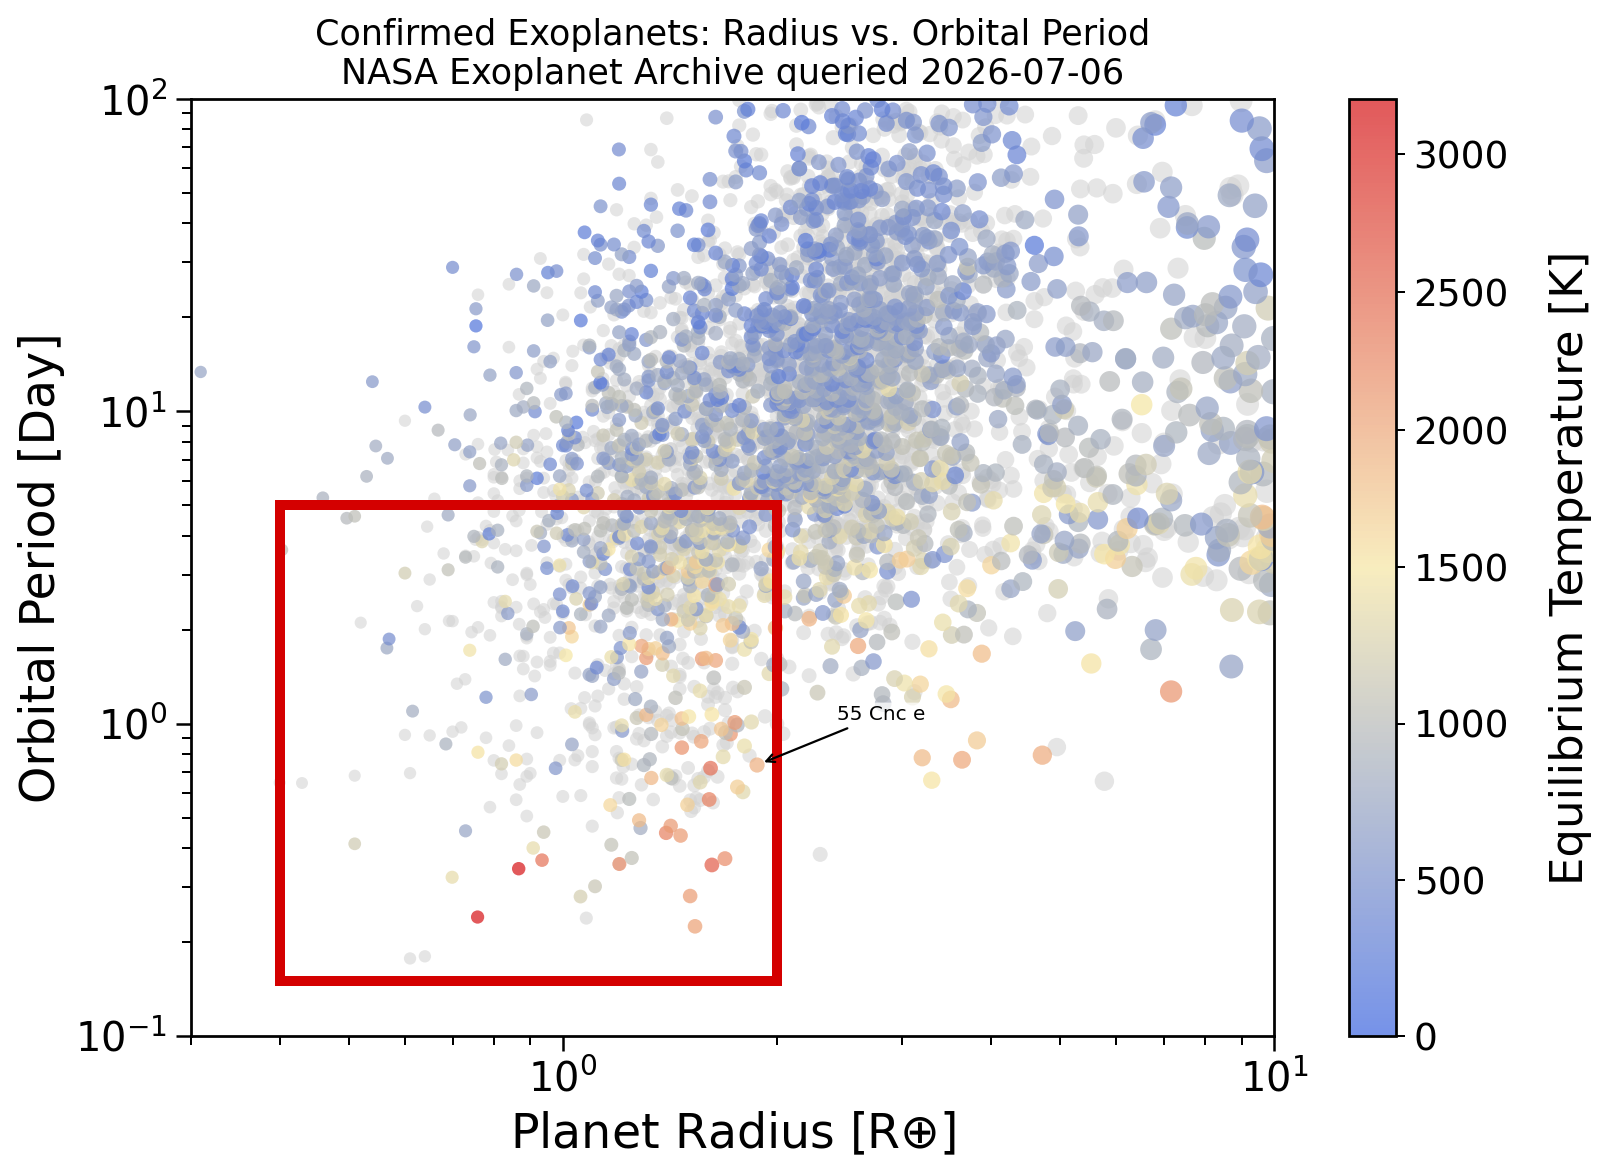
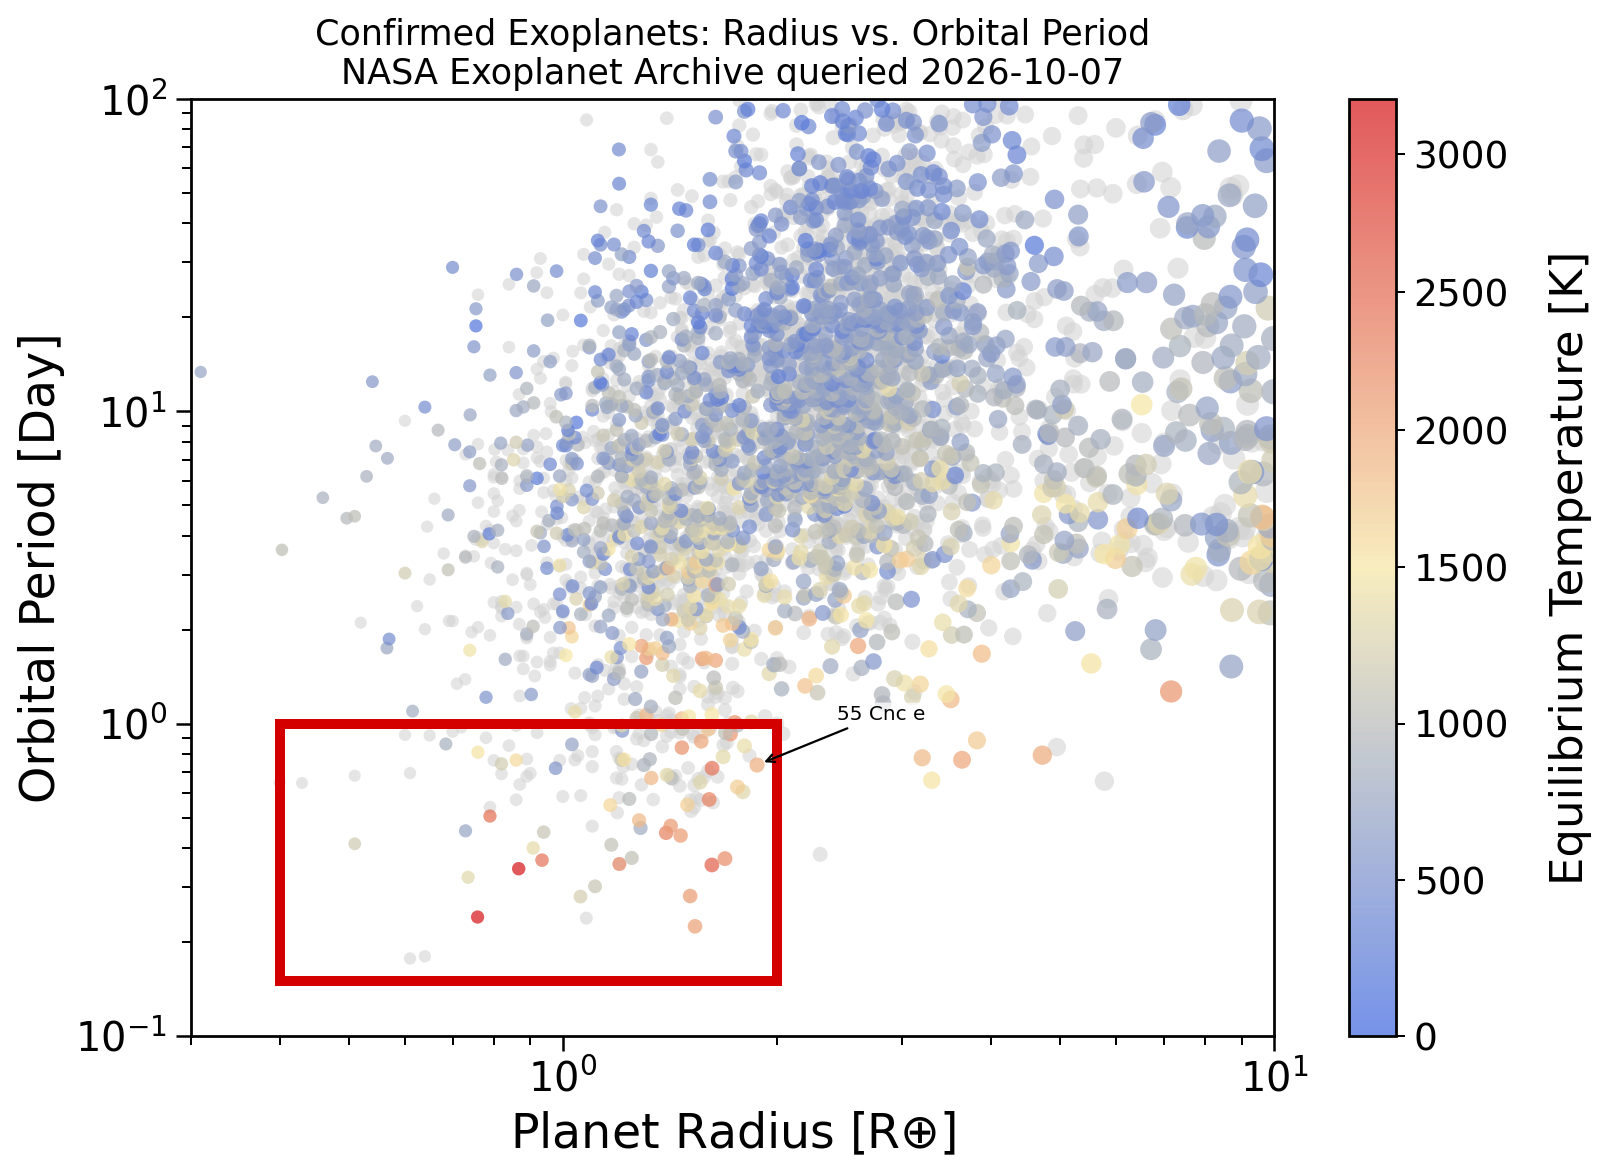
update

diff --git a/content/research/hot_gcm/index.md b/content/research/hot_gcm/index.md
@@ -26,7 +26,7 @@ toc: false
 
 Rocky exoplanets with ultra-short orbital periods are ideal targets for observations and offer a unique opportunity to study planets in extremely hot environments. Due to atmospheric escape, these planets are more likely to be airless like Mercury or to have a secondary atmosphere (non-hydrogen dominated) like Earth. Characterizing secondary atmospheres of such exoplanets provides crucial insights into atmospheric escape, redox and equilibrium chemistry, and exchange with the interior.
 
-{{< figure src="/images/exoplanet_distribution.png" caption="Orbital periods and radii of confirmed exoplanets as of May 2025. The planets located in the red box are rocky exoplanets with ultra-short orbital periods. The color of each point represents the equilibrium temperature of the planet, ranging from 500 to 3,000 K." width="95%" >}}
+{{< figure src="/images/exoplanet_distribution.png" caption="Orbital periods and radii of confirmed exoplanets from the NASA Exoplanet Archive, queried on 7 October 2026. The red box highlights the region of small planets with ultra-short orbital periods. Point colors indicate equilibrium temperature; 55 Cancri e is marked with an arrow." width="95%" >}}
 
 Despite extensive observations, most current interpretations predominantly relied on 1D models with non-self-consistent heat redistribution or oversimplified 3D models with unrealistic radiative transfer. However, few 3D models with realistic radiative transfer have been applied to these hot (non-habitable) rocky exoplanets, mainly due to the incompatibility of standard GCM radiative transfer codes with the extremely high temperatures.
 

diff --git a/content/research/_index.md b/content/research/_index.md
@@ -484,7 +484,7 @@ sections:
               </div>
               <figure class="research-usp__figure">
                 <img src="/images/exoplanet_distribution.png" alt="Orbital period, planet radius, and equilibrium temperature of confirmed exoplanets">
-                <figcaption class="research-usp__caption">Orbital period, planet radius, and equilibrium temperature of confirmed exoplanets.</figcaption>
+                <figcaption class="research-usp__caption">Orbital period, planet radius, and equilibrium temperature of confirmed exoplanets. NASA Exoplanet Archive queried on 7 October 2026.</figcaption>
               </figure>
             </div>
           </section>
